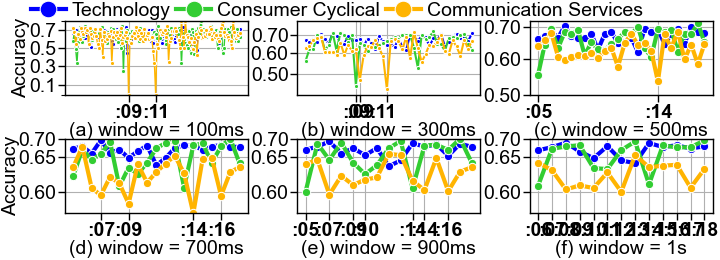
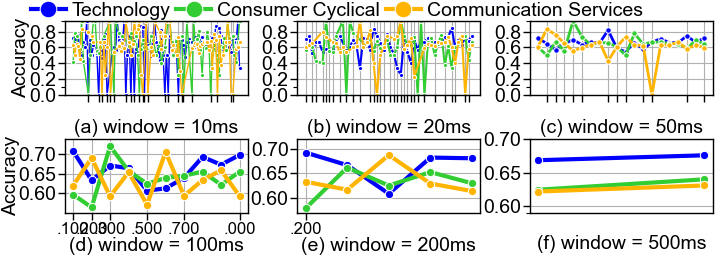
exp

diff --git a/experiments/stocks/stock_nanosecond/window_size_sensitivity/traditional/merge_into_one_figure_2x3.py b/experiments/stocks/stock_nanosecond/window_size_sensitivity/traditional/merge_into_one_figure_2x3.py
@@ -30,7 +30,7 @@ sector_list = ['Technology', 'Consumer Cyclical', 'Communication Services']
 # window_size_unit_list = ["100ms", "200ms", "500ms", "1s", "2s", "5s"]
 
 
-window_size_unit_list = ["100ms", "300ms", "500ms", "700ms", "900ms", "1s"]
+window_size_unit_list = ["10ms", "20ms", "50ms", "100ms", "200ms", "500ms"]
 
 
 result_file_list = dict()
@@ -54,8 +54,8 @@ plt.subplots_adjust(top=0.92, bottom=0.18, hspace=0.6, wspace=0.27, left=0.09, r
 
 
 
-time_start = pd.Timestamp('2024-10-15 14:00:05.00', tz='UTC')
-time_end = pd.Timestamp('2024-10-15 14:00:18.00', tz='UTC')
+time_start = pd.Timestamp('2024-10-15 14:00:10.00', tz='UTC')
+time_end = pd.Timestamp('2024-10-15 14:00:11.00', tz='UTC')
 
 curve_colors = sns.color_palette(palette=['black', '#09339e', '#5788ee', '#00b9bc', '#7fffff', '#81db46',
                                           '#41ab5d', '#006837'])
@@ -90,6 +90,11 @@ for i in range(0, len(window_size_unit_list)):
                          x='ts_event',
                          y='accuracy', hue='sector', legend=False, marker='o', linestyle='-', linewidth=1.5,
                          markersize=3, palette=curve_colors, hue_order=sector_order)
+    elif i == 2:
+        g = sns.lineplot(ax=axes[i//3][i%3], data=result_file_list[window_size_unit_list[i]],
+                            x='ts_event',
+                            y='accuracy', hue='sector', legend=False, marker='o', linestyle='-', linewidth=2,
+                            markersize=4, palette=curve_colors, hue_order=sector_order)
     elif i == len(window_size_unit_list)-1:
         g = sns.lineplot(ax=axes[i//3][i%3], data=result_file_list[window_size_unit_list[i]],
                          x='ts_event',
@@ -105,7 +110,10 @@ for i in range(0, len(window_size_unit_list)):
     axes[i//3][i%3].tick_params(axis='both', which='major', labelsize=15, pad=1.5)
     # axes[i//3][i%3].set_yticks([0, 0.5, 1.0])
     axes[i//3][i%3].set_ylabel('')
-    axes[i//3][i%3].set_xlabel(xlabel, fontsize=14, labelpad=0).set_position([0.5, 1])
+    if i == len(window_size_unit_list) - 1:
+        axes[i // 3][i % 3].set_xlabel(xlabel, fontsize=14, labelpad=16).set_position([0.5, 4])
+    else:
+        axes[i // 3][i % 3].set_xlabel(xlabel, fontsize=14, labelpad=0).set_position([0.5, 1])
 
 
     # Define the common x-tick labels for the first subplot
@@ -120,7 +128,7 @@ for i in range(0, len(window_size_unit_list)):
         lst = result_file_list[window_size]['ts_event'].unique().tolist()
         timestamp_values = np.array([pd.Timestamp(time).value for time in lst])  # Convert to numeric values
         tick_idx = []
-        df_below_threshold = result_file_list[window_size][result_file_list[window_size]['accuracy'] < 0.3]
+        df_below_threshold = result_file_list[window_size][result_file_list[window_size]['accuracy'] < 0.1]
         df_below_threshold = df_below_threshold[1:]
 
         # for tick_time in manual_ticks:
@@ -139,15 +147,15 @@ for i in range(0, len(window_size_unit_list)):
 
     else:
         if i == 1:
-            df_below_threshold = result_file_list[window_size][result_file_list[window_size]['accuracy'] < 0.5]
+            df_below_threshold = result_file_list[window_size][result_file_list[window_size]['accuracy'] < 0.6]
         elif i == 2:
-            df_below_threshold = result_file_list[window_size][result_file_list[window_size]['accuracy'] < 0.56]
+            df_below_threshold = result_file_list[window_size][result_file_list[window_size]['accuracy'] < 0.6]
         elif i == 3:
-            df_below_threshold = result_file_list[window_size][result_file_list[window_size]['accuracy'] < 0.597]
+            df_below_threshold = result_file_list[window_size][result_file_list[window_size]['accuracy'] < 0.6]
         elif i == 4:
-            df_below_threshold = result_file_list[window_size][result_file_list[window_size]['accuracy'] < 0.62]
+            df_below_threshold = result_file_list[window_size][result_file_list[window_size]['accuracy'] < 0.6]
         elif i == 5:
-            df_below_threshold = result_file_list[window_size][result_file_list[window_size]['accuracy'] < 0.65]
+            df_below_threshold = result_file_list[window_size][result_file_list[window_size]['accuracy'] < 0.6]
 
     # Extract unique timestamps where accuracy is below the threshold
     unique_below_threshold_times = df_below_threshold["ts_event"].unique()
@@ -164,18 +172,27 @@ for i in range(0, len(window_size_unit_list)):
         # Interpolate the approximate index for each time point where accuracy < 55%
         interpolated_index = np.interp(tick_timestamp, timestamp_values, range(len(lst)))
         tick_idx.append(interpolated_index)
-
-        # Create simplified label for the tick (e.g., just the minute and seconds)
-        tick_labels.append(pd.Timestamp(tick_time).strftime(':%S'))
+    if i < 3:
+        tick_labels = [' '] * len(tick_idx)
+    # elif i == 5:
+    #     tick_idx = [0]
+    #     tick_labels = [" "]
+    else:
+        tick_labels = [pd.Timestamp(tick_time).strftime('.%f')[:-3] for tick_time in unique_below_threshold_times]
 
     # Set these timestamps as xticks with the simplified labels
     axes[i//3][i%3].set_xticks(tick_idx)
-    axes[i//3][i%3].set_xticklabels(tick_labels, rotation=0, fontsize=14, fontweight='bold')
+    if i >= 3:
+        # Set the tick labels for the last two subplots
+        axes[i//3][i%3].set_xticklabels(tick_labels, rotation=0, fontsize=12)
+    else:
+        # Set the tick labels for the first subplot
+        axes[i//3][i%3].set_xticklabels(tick_labels, rotation=0, fontsize=12)
 
 
-first_label = axes[0][1].get_xticklabels()[2]
-first_label.set_transform(first_label.get_transform() + Affine2D().translate(-4, 0))  # Shift 5 points left
-
+# first_label = axes[0][1].get_xticklabels()[2]
+# first_label.set_transform(first_label.get_transform() + Affine2D().translate(-4, 0))  # Shift 5 points left
+#
 
 
 
@@ -221,7 +238,7 @@ updated_labels = list(current_labels)
 
 # Set the updated ticks and labels
 axes[1][1].set_xticks(updated_ticks)
-axes[1][1].set_xticklabels(updated_labels, rotation=0, fontsize=14)
+axes[1][1].set_xticklabels(updated_labels, rotation=0, fontsize=12)
 
 
 
@@ -233,34 +250,36 @@ plt.draw()
 axes[0][0].set_ylabel('Accuracy', fontsize=14, labelpad=-1)
 axes[1][0].set_ylabel('Accuracy', fontsize=14, labelpad=-1)
 
+
+
 axes[0][0].set_ylim(0.0, 1)
-axes[0][0].set_yscale("symlog", linthresh=0.68)
-axes[0][0].set_yticks([0.1, 0.3, 0.5, 0.7], ["0.1", "0.3", "0.5", "0.7"], fontsize=14)
+axes[0][0].set_yscale("symlog", linthresh=0.9)
+axes[0][0].set_yticks([0.0, 0.2, 0.4, 0.6, 0.8], ["0.0", "0.2", "0.4", "0.6", "0.8"], fontsize=14)
 
-axes[0][1].set_ylim(0.4, 0.9)
-axes[0][1].set_yscale("symlog", linthresh=0.68)
-axes[0][1].set_yticks([0.5, 0.6, 0.7], ["0.50", "0.60", "0.70"], fontsize=14)
+axes[0][1].set_ylim(0.0, 1)
+axes[0][1].set_yscale("symlog", linthresh=0.9)
+axes[0][1].set_yticks([0.0, 0.2, 0.4, 0.6, 0.8], ["0.0", "0.2", "0.4", "0.6", "0.8"], fontsize=14)
 
-axes[0][2].set_ylim(0.5, 0.75)
-axes[0][2].set_yscale("symlog", linthresh=0.68)
-axes[0][2].set_yticks([0.5, 0.6, 0.7], ["0.50", "0.60", "0.70"], fontsize=14)
+axes[0][2].set_ylim(0.0, 1)
+axes[0][2].set_yscale("symlog", linthresh=0.9)
+axes[0][2].set_yticks([0.0, 0.2, 0.4, 0.6, 0.8], ["0.0", "0.2", "0.4", "0.6", "0.8"], fontsize=14)
 
 
-axes[1][0].set_ylim(0.57, 0.7)
-axes[1][0].set_yscale("symlog", linthresh=0.66)
+axes[1][0].set_ylim(0.55, 0.8)
+axes[1][0].set_yscale("symlog", linthresh=0.7)
 axes[1][0].set_yticks([0.6, 0.65, 0.7], ["0.60", "0.65", "0.70"], fontsize=14)
 
 
 
-axes[1][1].set_ylim(0.57, 0.7)
-axes[1][1].set_yscale("symlog", linthresh=0.66)
+axes[1][1].set_ylim(0.57, 0.75)
+axes[1][1].set_yscale("symlog", linthresh=0.7)
 axes[1][1].set_yticks([ 0.6, 0.65, 0.7], ["0.60", "0.65", "0.70"], fontsize=14)
 
 
 
 
-axes[1][2].set_ylim(0.57, 0.7)
-axes[1][2].set_yscale("symlog", linthresh=0.66)
+axes[1][2].set_ylim(0.59, 0.7)
+axes[1][2].set_yscale("symlog", linthresh=0.7)
 axes[1][2].set_yticks([ 0.6, 0.65, 0.7], ["0.60", "0.65", "0.70"], fontsize=14)
 
 

diff --git a/experiments/stocks/stock_nanosecond/window_size_sensitivity/traditional/merge_into_one_figure_1x3.py b/experiments/stocks/stock_nanosecond/window_size_sensitivity/traditional/merge_into_one_figure_1x3.py
@@ -1,0 +1,171 @@
+import ast
+
+import pandas as pd
+import numpy as np
+import matplotlib.pyplot as plt
+import seaborn as sns
+from matplotlib.scale import ScaleBase
+from matplotlib.transforms import Transform
+from matplotlib.transforms import Affine2D
+# Enable LaTeX rendering
+# plt.rcParams['text.usetex'] = True
+# plt.rcParams['font.family'] = 'CMU.Serif'
+# plt.rcParams['font.serif'] = 'Computer Modern'
+
+# Set the global font family to serif
+plt.rcParams['font.family'] = 'arial'
+
+sns.set_palette("Paired")
+sns.set_context("paper", font_scale=1.6)
+
+# monitored_groups = [{"sector": 'Technology'}, {"sector": 'Consumer Cyclical'}, {'sector': 'Communication Services'},
+#                     {"sector": 'Consumer Defensive'}, {"sector": 'Energy'}, {"sector": 'Healthcare'},
+#                     {"sector": 'Financial Services'}]
+
+# sorted_sector_list = ['Technology', 'Consumer Cyclical', 'Communication Services', 'Consumer Defensive', 'Energy',
+#                           'Healthcare', 'Financial Services']
+
+sector_list = ['Technology', 'Consumer Cyclical', 'Communication Services']
+#
+# window_size_unit_list = ["100ms", "200ms", "500ms", "1s", "2s", "5s"]
+
+
+window_size_unit_list = ["20ms", "100ms", "500ms"]
+
+
+result_file_list = dict()
+for window_size in window_size_unit_list:
+    file_name = f"traditional_accuracy_time_window_{window_size}.csv"
+    df = pd.read_csv(file_name)
+    # df = df[df['sector'].isin(sorted_sector_list)]
+    df = df[df['sector'].isin(sector_list)]
+    result_file_list[window_size] = df
+
+
+
+print("draw the plot")
+
+# Calculate the global y-axis limits based on all data
+y_min = min(df['accuracy'].min() for df in result_file_list.values())
+y_max = max(df['accuracy'].max() for df in result_file_list.values())
+# Set up a row of 8 subplots with a shared y-axis
+fig, axes = plt.subplots(1, 3, figsize=(7.2, 1.4))
+plt.subplots_adjust(top=0.85, bottom=0.35, hspace=0.3, wspace=0.27, left=0.05, right=0.99)
+
+
+
+time_start = pd.Timestamp('2024-10-15 14:00:10.00', tz='UTC')
+time_end = pd.Timestamp('2024-10-15 14:00:11.00', tz='UTC')
+
+curve_colors = sns.color_palette(palette=['black', '#09339e', '#5788ee', '#00b9bc', '#7fffff', '#81db46',
+                                          '#41ab5d', '#006837'])
+curve_colors = sns.color_palette(palette=['firebrick', 'darkorange', '#004b00', 'blueviolet', '#0000ff', '#57d357',
+                                          'magenta', 'cyan'])
+curve_colors = sns.color_palette(palette=[ 'blue', 'limegreen', '#ffb400', 'darkviolet','cyan', 'black',
+                                            "red", 'magenta'])
+# curve_colors = sns.color_palette([
+#     'Turquoise',  # Indigo
+#     '#ff7f0e',  # Bright Orange
+#     '#228b22',  # Forest Green
+#     '#8a2be2',  # Soft Purple
+#     '#e41a1c',  # Bright Red
+#     '#ffb400',  # Golden Yellow
+#     'black'   # Charcoal Gray
+# ])
+# curve_colors = sns.color_palette("tab10", 7)
+
+# Plot the data
+sector_order = sector_list
+lines = []
+labels = []
+for i in range(0, len(window_size_unit_list)):
+    window_size = window_size_unit_list[i]
+    if i == 0:
+        g = sns.lineplot(ax=axes[i], data=result_file_list[window_size_unit_list[i]],
+                         x='ts_event',
+                         y='accuracy', hue='sector', legend=True, marker='o', linestyle='-', linewidth=1,
+                         markersize=3, palette=curve_colors, hue_order=sector_order)
+    else:
+        g = sns.lineplot(ax=axes[i], data=result_file_list[window_size_unit_list[i]],
+                         x='ts_event',
+                         y='accuracy', hue='sector', legend=False, marker='o', linestyle='-', linewidth=2.2,
+                         markersize=3, palette=curve_colors, hue_order=sector_order)
+    xlabel = f"({chr(97 + i)}) window = {window_size}"
+    axes[i].grid(True, alpha=1)
+    axes[i].tick_params(axis='both', labelsize=15, pad=1.5)
+    axes[i].set_ylabel('')
+    axes[i].set_xlabel(xlabel, fontsize=14, labelpad=2.3)
+
+
+
+    # Apply manual ticks and accuracy < 55% markers only to the first subplot
+    df_below_threshold = result_file_list[window_size][result_file_list[window_size]['accuracy'] < 0.6]
+
+    # Extract unique timestamps where accuracy is below the threshold
+    unique_below_threshold_times = df_below_threshold["ts_event"].unique()
+
+    # Convert these timestamps to integer values for indexing and interpolation
+    lst = result_file_list[window_size]['ts_event'].unique().tolist()
+    timestamp_values = np.array([pd.Timestamp(time).value for time in lst])
+    tick_idx = []
+    tick_labels = []
+
+    for tick_time in unique_below_threshold_times:
+        tick_timestamp = pd.Timestamp(tick_time).value
+
+        # Interpolate the approximate index for each time point where accuracy < 55%
+        interpolated_index = np.interp(tick_timestamp, timestamp_values, range(len(lst)))
+        tick_idx.append(interpolated_index)
+    if i < 1:
+        tick_labels = [' '] * len(tick_idx)
+    # elif i == 5:
+    #     tick_idx = [0]
+    #     tick_labels = [" "]
+    else:
+        tick_labels = [pd.Timestamp(tick_time).strftime('.%f')[:-4] for tick_time in unique_below_threshold_times]
+
+    # Set these timestamps as xticks with the simplified labels
+    axes[i].set_xticks(tick_idx)
+    if i == 2:
+        # Set the tick labels for the last two subplots
+        axes[i].set_xticklabels(tick_labels, rotation=0, fontsize=12)
+    else:
+        # Set the tick labels for the first subplot
+        axes[i].set_xticklabels(tick_labels, rotation=0, fontsize=12)
+
+
+
+
+# Redraw the figure to apply the transformation
+plt.draw()
+
+# Set y-label only for the first subplot
+# axes[0].set_ylabel('Accuracy', fontsize=14, labelpad=-1)
+# axes[1][0].set_ylabel('Accuracy', fontsize=14, labelpad=-1)
+
+
+
+axes[0].set_ylim(0.0, 1)
+axes[0].set_yscale("symlog", linthresh=0.9)
+axes[0].set_yticks([0.0, 0.2, 0.4, 0.6, 0.8], ["0.0", "0.2", "0.4", "0.6", "0.8"], fontsize=14)
+
+axes[1].set_ylim(0.55, 0.82)
+axes[1].set_yscale("symlog", linthresh=0.9)
+axes[1].set_yticks([0.6, 0.7, 0.8], ["0.6", "0.7", "0.8"], fontsize=14)
+
+axes[2].set_ylim(0.55, 0.73)
+axes[2].set_yscale("symlog", linthresh=0.9)
+axes[2].set_yticks([ 0.6, 0.7], ["0.6", "0.7"], fontsize=14)
+axes[2].xaxis.set_label_coords(0.5, -0.34)  # adjust second number as needed
+
+
+#
+sns.move_legend(axes[0], "upper left", fontsize=14,
+                bbox_to_anchor=(0, 1.5), ncol=3,
+                labelspacing=0.4, draggable=True,
+                handletextpad=0.3, markerscale=2, handlelength=1.8, handleheight=1,
+               columnspacing=0.5, borderpad=0.2, frameon=False, title=None)
+
+
+fig.savefig("traditional_accuracy_time_window_change_1x3.png")
+plt.show()

diff --git a/experiments/stocks/stock_nanosecond/window_size_sensitivity/traditional/get_accuracy_different_intervals.py b/experiments/stocks/stock_nanosecond/window_size_sensitivity/traditional/get_accuracy_different_intervals.py
@@ -37,7 +37,7 @@ date = "20241015"
 data_file_name = f"xnas-itch-{date}_{time_period}"
 len_chunk = 1
 # Prepare the result file for writing
-data_file_name = f"../predict_results/prediction_result_{data_file_name}_chunk_size_{len_chunk}_v3.csv"
+data_file_name = f"../../predict_results/prediction_result_{data_file_name}_chunk_size_{len_chunk}_v3.csv"
 data = pd.read_csv(data_file_name)
 
 
@@ -45,8 +45,8 @@ sector_list = ['Technology', 'Consumer Cyclical', 'Communication Services']
 
 data = data[data["sector"].isin(sector_list)]
 
-time_start = pd.Timestamp('2024-10-15 14:00:05.00', tz='UTC')
-time_end = pd.Timestamp('2024-10-15 14:00:18.00', tz='UTC')
+time_start = pd.Timestamp('2024-10-15 14:00:10.00', tz='UTC')
+time_end = pd.Timestamp('2024-10-15 14:00:11.00', tz='UTC')
 
 data["ts_event"] = pd.to_datetime(data["ts_event"])
 # get data between time_start and time_end
@@ -72,7 +72,7 @@ correctness_column = "prediction_binary_correctness"
 
 
 # Define the time window dynamically
-time_window_str = "9s"
+time_window_str = "300ms"
 time_window = pd.to_timedelta(time_window_str)  # Convert to Timedelta
 
 # Generate time windows dynamically based on time_window and time range
